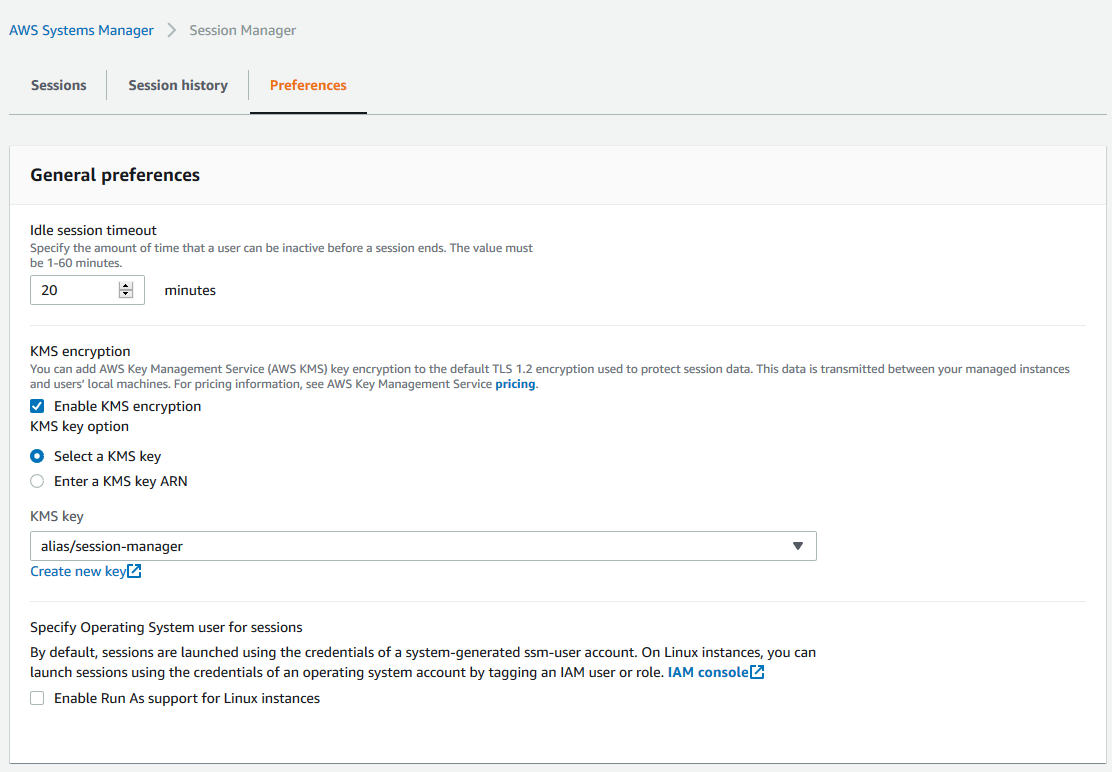
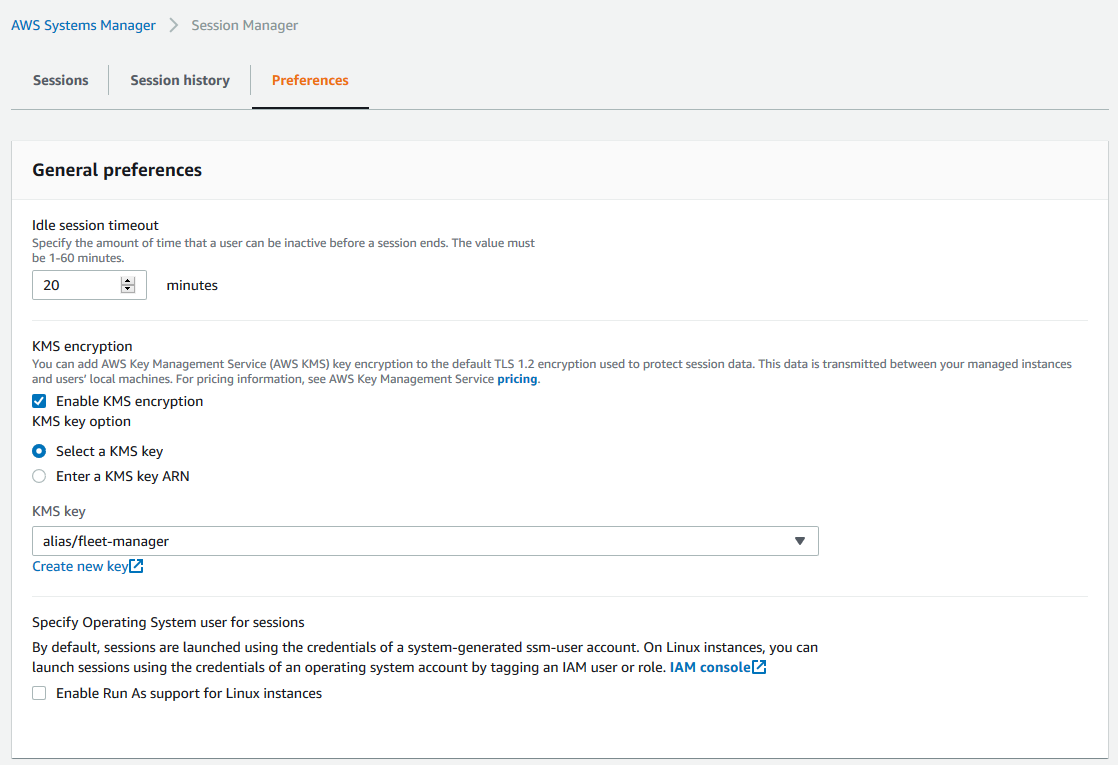
Updates to episode 03

diff --git a/episode-03-step-01-initial-setup.md b/episode-03-step-01-initial-setup.md
@@ -16,6 +16,7 @@ NOTE: You will incur charges as you go through either of these workshops, as the
     - [Confirm the EC2 instance is registered](#confirm-the-ec2-instance-is-registered)
 - [CloudFormation instructions](#cloudformation-instructions)
     - [Create test resources using CloudFormation](#create-test-resources-using-cloudformation)
+    - [(CloudFormation) Add KMS encryption to Session Manager preferences](#cloudformation-add-kms-encryption-to-session-manager-preferences)
 - [Next Section](#next-section)
 
 ## Summary
@@ -54,7 +55,7 @@ To create the resources using CloudFormation, skip to the section [CloudFormatio
     #Download the script and save to the C: drive
     #
     Invoke-WebRequest `
-        https://notasdofelip.s3.amazonaws.com/loop-and-stress.ps1 `
+        https://github.com/aws-samples/aws-cloud-and-hybrid-operations-workshop/blob/main/misc/loop-and-stress.ps1 `
         -OutFile c:\loop-and-stress.ps1
 
     #
@@ -128,7 +129,7 @@ In order to fully manage the instance with Fleet Manager, you need to configure 
 1. In the navigation pane, choose **Customer managed keys**.
 1. Choose **Create key**.
 1. On the **Configure key** page, leave the default value of **Symmetric** for the **Key type** and choose **Next**.
-1. On the **Add labels** page, for **Alias** enter ```session-manager```, and choose **Next**.
+1. On the **Add labels** page, for **Alias** enter ```fleet-manager```, and choose **Next**.
 1. On the **Define key administrative permissions** page, select your IAM user or role you are currently logged in with, and choose **Next**.
 1. On the **Define key usage permissions** page, select the EC2 IAM instance profile role **AmazonSSMRoleForInstancesQuickSetup**, and choose **Next**.
 1. On the **Review** page, choose **Finish**.
@@ -192,37 +193,51 @@ You have now successfully created the test resources required for this workshop 
 
 ## CloudFormation instructions
 
-The [CloudFormation template](cfntemplates/create-instance-unmanaged.yaml) creates a test Windows EC2 instance and IAM instance profile role for System Manager.
+The [CloudFormation template](cfntemplates/ssm-workshop-resources-episode-03.yml) creates a test Windows EC2 instance and IAM instance profile role for System Manager.
 
 ### Create test resources using CloudFormation
 
 **To save the CloudFormation template locally**
     
-1. Open the CloudFormation template [ssm-workshop-resources-episode-01.yml](cfntemplates/ssm-workshop-resources-episode-01.yml).
+1. Open the CloudFormation template [ssm-workshop-resources-episode-03.yml](cfntemplates/ssm-workshop-resources-episode-03.yml).
 1. Choose **Raw**.
 
     ![](/media/github-raw.png)
 
 1. Open Notepad and copy the entire text.
-1. Save the file to your local machine as ```ssm-workshop-resources-episode-01.yml```.
+1. Save the file to your local machine as ```ssm-workshop-resources-episode-03.yml```.
 
 The CloudFormation template will create the resources depicted in the diagram below.
 
-![](/media/ep01-st01.png)
+![](/media/ep03-st01.png)
 
-**To create the test EC2 instances**
+**To create the workshop test resources**
     
 1. Open the [AWS CloudFormation console](https://console.aws.amazon.com/cloudformation/home).
 1. Choose **Create stack**.
-1. For **Specify template**, choose **Upload a template file**, choose the file you saved locally ```ssm-workshop-resources-episode-01.yml```, and choose **Next**.
+1. For **Specify template**, choose **Upload a template file**, choose the file you saved locally ```ssm-workshop-resources-episode-03.yml```, and choose **Next**.
 
-    ![](/media/cloudformation-create-stack-ep01.png)
+    ![](/media/cloudformation-create-stack-ep03.png)
 
-1. For **Stack name**, enter ```ssm-workshop```, and choose **Next**.
+1. For **Stack name**, enter ```ssm-workshop-ep03```, and choose **Next**.
 1. On the **Configure stack options** page, leave the defaults and choose **Next**.
-1. On the **Review** page, choose **Create stack**.
+1. On the **Review ssm-workshop-ep03** page, choose **I acknowledge that AWS CloudFormation might create IAM resources with custom names.**
+1. Choose **Create stack**.
 
-CloudFormation will begin provisioning the resources specified within the CloudFormation template and once complete, you will have two Amazon Linux 2 EC2 instances to test using Systems Manager. You can also use the refresh button to see the latest events related to the CloudFormation stack. Once the status of the CloudFormation stack changes to ```CREATE_COMPLETE```, you can proceed with the next steps. This process should complete within 5 minutes.
+CloudFormation will begin provisioning the resources specified within the CloudFormation template and once complete, you will have one Windows EC2 instance to work with during this workshop. You can also use the refresh button to see the latest events related to the CloudFormation stack. Once the status of the CloudFormation stack changes to ```CREATE_COMPLETE```, you can proceed with the next steps. This process should complete within 5 minutes.
+
+### (CloudFormation) Add KMS encryption to Session Manager preferences
+
+1. Open the **AWS Systems Manager** console at https://console.aws.amazon.com/systems-manager/home.
+1. In the navigation pane, choose [**Session Manager**](https://console.aws.amazon.com/systems-manager/session-manager).
+1. Choose **Configure Preferences**.
+    - **Note**: If you have previously used Session Manager, choose the **Preferences** tab and choose **Edit**.
+1. Choose **Enable KMS encryption**.
+1. Choose **Select a KMS key** and choose the custom KMS key created by the CloudFormation stack from the drop-down list (**alias/fleet-manager**).
+
+    ![](media/episode-03-session-preferences.png)
+
+1. Choose **Save**.
 
 You have now completed the CloudFormation setup instructions for this workshop. You can now proceed to the [Next Section](#next-section).
 
